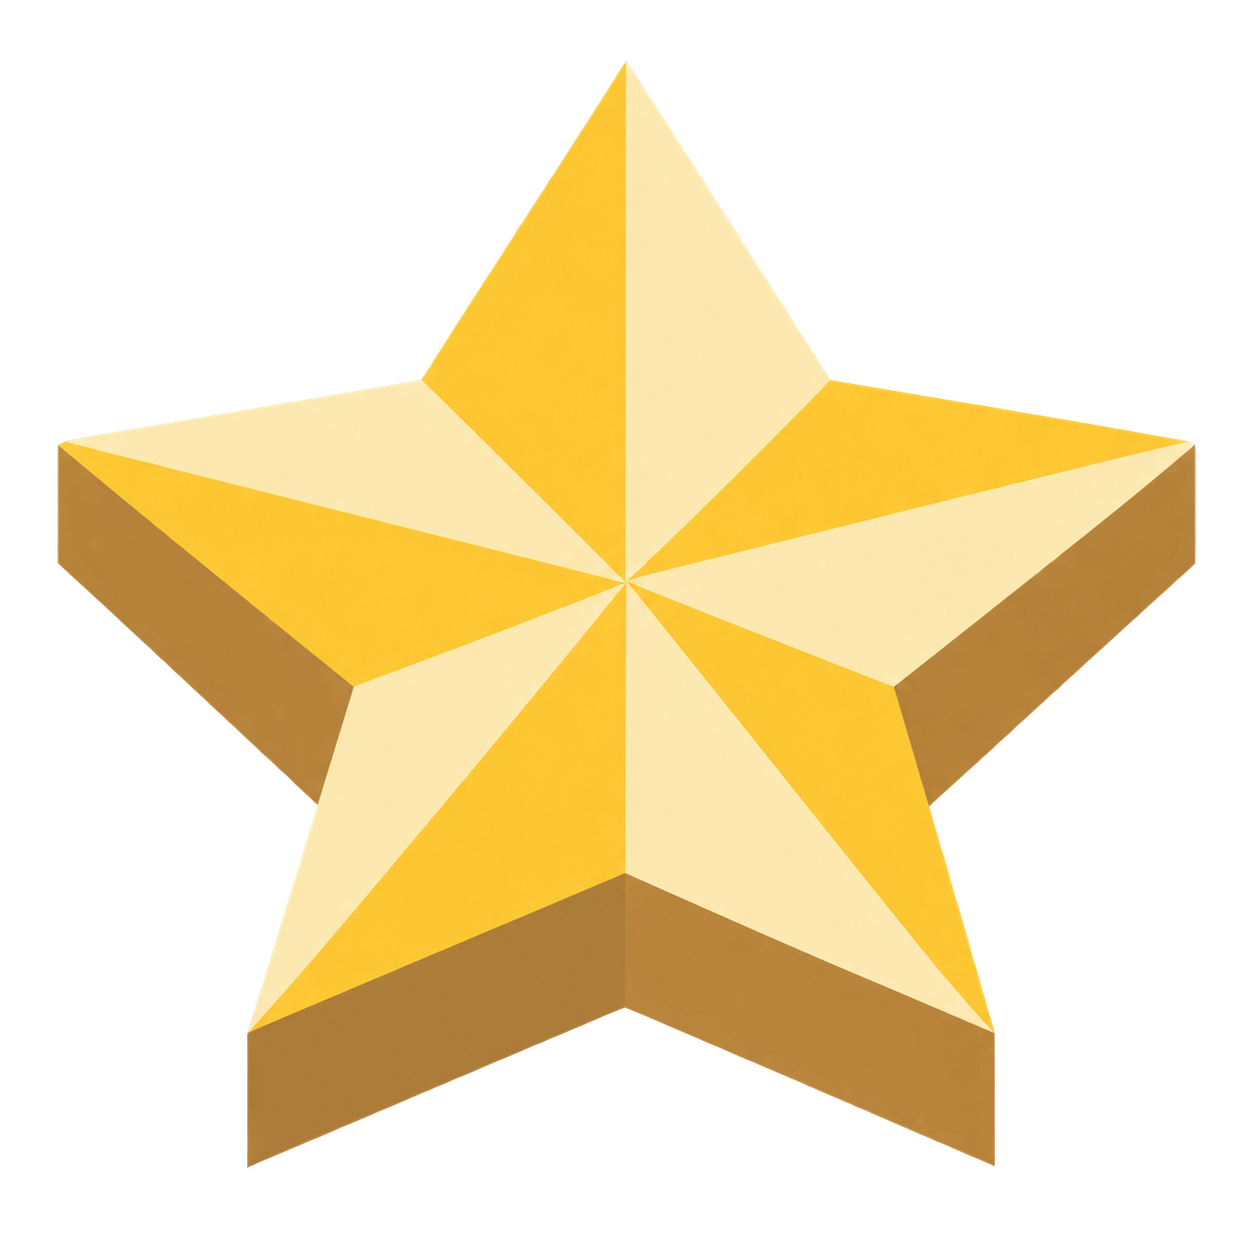
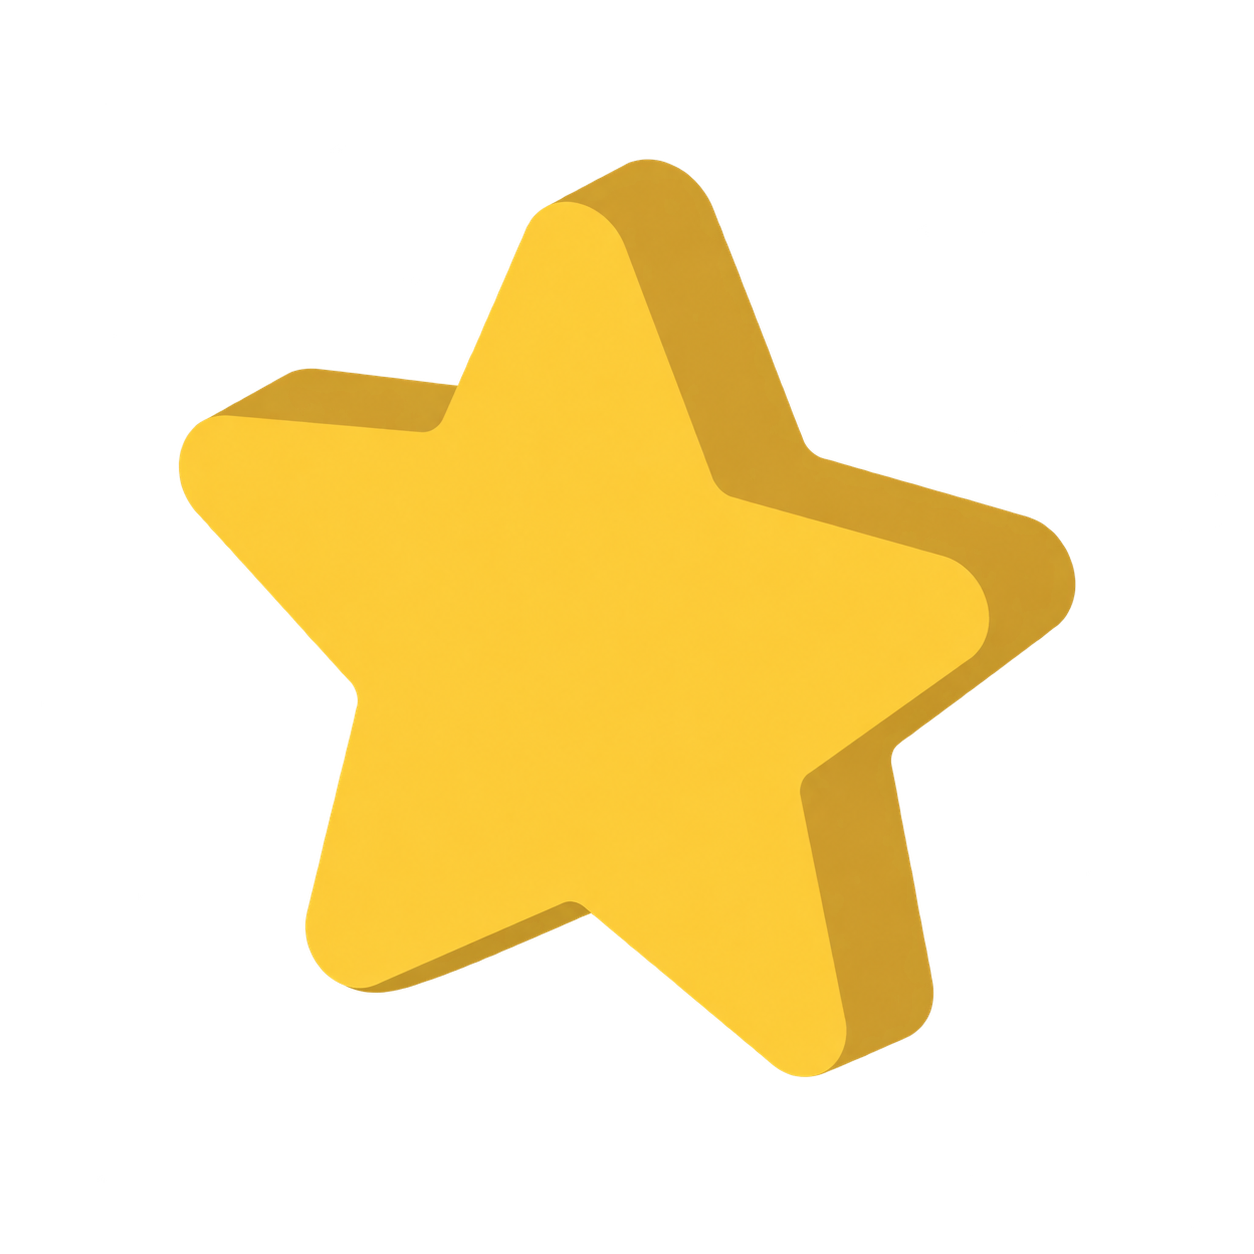
new version and remake

diff --git a/src/MountainApp.tsx b/src/MountainApp.tsx
@@ -1,0 +1,46 @@
+import { useEffect, useState } from 'react';
+import { convert, parseMoney } from './math';
+import { items, money, number, quantityLabel, verdict } from './items';
+import { loadInitialState, savePrices } from './preferences';
+import { mountainLayout } from './mountain';
+import './mountain.css';
+
+export default function MountainApp() {
+  const [state, setState] = useState(() => {
+    const initial = loadInitialState();
+    return { ...initial, price: number.format(initial.prices.rohliky) };
+  });
+  const amount = parseMoney(state.amount);
+  const price = parseMoney(state.price);
+  const result = amount !== null && price !== null && price > 0 ? convert(amount, price) : null;
+  const pile = mountainLayout(result?.whole ?? 0);
+  useEffect(() => { savePrices(state.prices); }, [state.prices]);
+  function changePrice(value: string) {
+    const parsed = parseMoney(value);
+    setState(current => ({ ...current, price: value, prices: parsed !== null && parsed > 0 ? { ...current.prices, rohliky: parsed } : current.prices }));
+  }
+  return <div className="mountain-page">
+    <main className="mountain-main">
+      <section className="mountain-controls" aria-labelledby="title">
+        <h1 id="title">Kolik rohlíků?</h1>
+        <label className="field-label" htmlFor="mountain-amount">Kolik to stojí?</label>
+        <div className="amount-wrap"><input id="mountain-amount" inputMode="decimal" autoComplete="off" maxLength={18} value={state.amount} onChange={event => setState(current => ({ ...current, amount: event.target.value }))} aria-invalid={amount === null} aria-describedby="mountain-error" /><span>Kč</span></div>
+        <div className="presets">{[{ name: 'Svačina', value: 50 }, { name: 'Boty', value: 2500 }, { name: 'Telefon', value: 25000 }, { name: 'Auto', value: 500000 }].map(preset => <button key={preset.value} onClick={() => setState(current => ({ ...current, amount: number.format(preset.value) }))}>{preset.name}</button>)}</div>
+        <div className="price-row"><label htmlFor="mountain-price">Cena za rohlík</label><div className="price-input"><input id="mountain-price" inputMode="decimal" value={state.price} maxLength={15} onChange={event => changePrice(event.target.value)} aria-invalid={price === null || price <= 0} aria-describedby="mountain-error" /><span>Kč</span><span aria-hidden="true">✎</span></div></div>
+        <p id="mountain-error" className="error" hidden={!!result}>Zadej nezápornou částku a cenu rohlíku vyšší než nula, nejvýše na dvě desetinná místa.</p>
+        <div className="mountain-add"><button disabled={!result} onClick={() => setState(current => ({ ...current, amount: number.format(Math.min(1_000_000_000, (amount ?? 0) + 100)) }))}>+ 100 Kč</button><button disabled={!result} onClick={() => setState(current => ({ ...current, amount: number.format(Math.min(1_000_000_000, (amount ?? 0) + 1000)) }))}>+ 1 000 Kč</button></div>
+      </section>
+      <section className="mountain-scene" aria-label="Hora rohlíků">
+        <div className="mountain-total" aria-live="polite" aria-atomic="true"><div className={`quantity${result && result.whole > 999999 ? ' long' : ''}`}>{result ? number.format(result.whole) : '—'}</div><div className="quantity-label">{result ? quantityLabel(items[0], result.whole) : 'čekáme na platnou cenu'}</div></div>
+        <svg className="bread-mountain" viewBox="0 0 600 450" aria-hidden="true">
+          <ellipse cx="300" cy="412" rx={pile.length ? Math.min(264, 30 + Math.sqrt(pile.length) * 16) : 35} ry="13" fill="#d7cbb1" opacity=".22" />
+          <path d="M28 420Q300 415 572 420" stroke="#d9d4c7" fill="none" />
+          {pile.map((bread, index) => <g key={index} className="bread-piece" style={{ transform: `translate(${bread.x}px, ${bread.y}px) rotate(${bread.rotation}deg)` }}><image href="/assets/rohliky.png" x={-bread.width / 2} y={-bread.width / 2} width={bread.width} height={bread.width} /></g>)}
+        </svg>
+        <p className="mountain-verdict">{result && amount !== null ? verdict('rohliky', amount, result.whole) : '\u00a0'}</p>
+        <p className="mountain-change">{result ? `A ještě ti zbyde ${money(result.remainder)}.` : '\u00a0'}</p>
+      </section>
+    </main>
+    <footer><span>Hromada je ilustrační. Počet sedí na rohlík.</span><span>Jen pro radost. A trochu perspektivy.</span></footer>
+  </div>;
+}

diff --git a/src/mountain.css b/src/mountain.css
@@ -1,0 +1,1 @@
+.version-nav{max-width:1100px;margin:32px auto 0;display:flex;gap:22px;padding:0 0;font-size:11px;color:var(--muted)}.version-nav a,.mountain-page footer a{color:var(--muted);text-decoration:none}.version-nav a:hover,.mountain-page footer a:hover{color:var(--ink)}.version-nav span{color:var(--ink);border-bottom:1px solid #b7b7ac;padding-bottom:6px}.mountain-main{grid-template-columns:340px minmax(0,1fr);gap:45px;align-items:center;margin-top:25px;min-height:640px}.mountain-controls h1{font-size:44px;letter-spacing:-2px;margin-bottom:42px}.mountain-controls .price-row{margin-top:30px}.mountain-add{display:flex;gap:9px;margin-top:30px}.mountain-add button{background:#eceae3;border:0;border-radius:5px;padding:11px 15px;font-size:11px;transition:background .15s,transform .15s}.mountain-add button:hover:not(:disabled){background:#e0ded5;transform:translateY(-2px)}.mountain-scene{min-width:0;position:relative;text-align:center;align-self:center}.mountain-total{position:absolute;top:0;left:0;right:0;z-index:2;pointer-events:none}.mountain-total .quantity{font-size:78px}.mountain-total .quantity.long{font-size:46px;letter-spacing:-2px}.mountain-total .quantity-label{font-size:12px}.bread-mountain{width:100%;display:block;overflow:visible;margin-top:40px}.bread-piece{transition:transform .55s cubic-bezier(.2,.75,.25,1);animation:bread-appear .45s ease-out}.mountain-verdict{margin:5px 0 10px;font-size:13px}.mountain-change{font-size:11px;color:var(--muted);margin:0}.mountain-page footer{font-size:10px}@keyframes bread-appear{from{opacity:0}to{opacity:1}}@media(max-width:1190px){.version-nav{margin-left:40px;margin-right:40px}.mountain-main{grid-template-columns:300px minmax(0,1fr);gap:25px}}@media(max-width:850px){.mountain-main{grid-template-columns:260px minmax(0,1fr);gap:10px}.mountain-controls h1{font-size:37px}.mountain-total .quantity{font-size:61px}}@media(max-width:680px){.version-nav{margin:23px 25px 0}.mountain-main{display:flex;flex-direction:column;gap:35px;margin:26px 25px 35px;min-height:0}.mountain-controls{width:100%;max-width:420px}.mountain-controls h1{font-size:39px;margin-bottom:28px}.mountain-controls .price-row{margin-top:24px}.mountain-add{margin-top:20px}.mountain-scene{width:100%;max-width:550px}.mountain-total{top:0}.mountain-total .quantity{font-size:60px}.bread-mountain{margin-top:65px}.mountain-page footer{gap:12px}.mountain-page footer a{white-space:nowrap}}@media(prefers-reduced-motion:reduce){.bread-piece{transition:none;animation:none}}

diff --git a/src/style.css b/src/style.css
@@ -10,3 +10,27 @@ h1{margin-bottom:38px}.unit-options{gap:9px}.unit-button{flex-direction:column;g
 /* Highlight the unit price only while interacting with it. */
 .price-input{background:transparent;border-color:var(--line)}
 .price-input:hover,.price-input:focus-within{background:var(--yellow)}
+/* Neutral accent variation. */
+:root{--yellow:#d2d2ce}
+.price-input:hover{border-color:#b0b0aa}
+.price-input:focus-within{border-color:#777972;box-shadow:0 0 0 3px #d2d2ce55}
+.price-input>span:last-child{color:var(--muted)}
+.receipt-actions button:hover:not(:disabled){box-shadow:0 2px 0 #aaada9}
+button:focus-visible,a:focus-visible,input:focus-visible{outline-color:#73766e}
+.amount-wrap:focus-within{border-color:#73766e}
+
+/* Quieter single-title layout. */
+:root{--yellow:#e9e8e3}
+main{margin-top:70px}
+h1{font-size:48px;line-height:1.15;letter-spacing:-2px;margin-bottom:42px}
+h1>span:after{display:none}
+.unit-button:before{left:18%;right:18%;border-radius:3px;transform:none}
+.unit-button[aria-pressed=true]:before{height:19px;opacity:.8}
+.unit-button:hover:before{opacity:.5}
+.price-input{border-color:#e4e2db}
+.price-input:hover{border-color:#d7d5ce}
+.price-input:focus-within{border-color:#b6b8af;box-shadow:0 0 0 2px #e9e8e340}
+.receipt-actions button:hover:not(:disabled){background:#eeede8;box-shadow:none;transform:none}
+.receipt-actions button:hover:not(:disabled)>span{transform:translate(1px,-1px)}
+@media(max-width:900px){main{margin-top:40px}h1{font-size:41px;letter-spacing:-1.5px}}
+@media(max-width:680px){main{margin-top:12px}h1{font-size:39px;margin-bottom:32px;letter-spacing:-1.5px}}

diff --git a/src/mountain.ts b/src/mountain.ts
@@ -1,0 +1,26 @@
+export interface BreadPosition { x: number; y: number; rotation: number; width: number }
+
+// The pile is illustrative: logarithmic growth keeps large amounts legible and bounded.
+export function mountainLayout(quantity: number): BreadPosition[] {
+  if (!Number.isFinite(quantity) || quantity <= 0) return [];
+  const count = Math.min(240, Math.max(1, Math.ceil(14 * Math.log2(1 + quantity / 4))));
+  const rows = Math.ceil((Math.sqrt(8 * count + 1) - 1) / 2);
+  const width = 57;
+  const horizontalStep = Math.min(28, 520 / Math.max(1, rows - 1));
+  const verticalStep = Math.min(20, 265 / Math.max(1, rows - 1));
+  const positions: BreadPosition[] = [];
+  for (let row = 0; positions.length < count; row++) {
+    const capacity = rows - row;
+    const remaining = Math.min(capacity, count - positions.length);
+    for (let column = 0; column < remaining; column++) {
+      const seed = positions.length * 137.508;
+      positions.push({
+        x: 300 + (column - (remaining - 1) / 2) * horizontalStep + Math.sin(seed) * 5,
+        y: 397 - row * verticalStep + Math.cos(seed) * 4,
+        rotation: Math.sin(seed * 2) * 29,
+        width,
+      });
+    }
+  }
+  return positions;
+}

diff --git a/src/mountain.test.ts b/src/mountain.test.ts
@@ -1,0 +1,14 @@
+import test from 'node:test';
+import assert from 'node:assert/strict';
+import { mountainLayout } from './mountain';
+
+test('pile is empty at zero and grows with quantity while remaining bounded', () => {
+  assert.deepEqual(mountainLayout(0), []);
+  const counts = [1, 10, 100, 1000, 100000, 100000000000].map(n => mountainLayout(n).length);
+  assert.ok(counts.every((n, i) => i === 0 || n >= counts[i - 1]));
+  assert.ok(counts.at(-1)! <= 240);
+  for (const position of mountainLayout(100000000000)) {
+    assert.ok(position.x > 20 && position.x < 580);
+    assert.ok(position.y > 120 && position.y < 410);
+  }
+});

diff --git a/src/main.tsx b/src/main.tsx
@@ -1,6 +1,6 @@
 import { StrictMode } from 'react';
 import { createRoot } from 'react-dom/client';
-import App from './App';
+import MountainApp from './MountainApp';
 import './style.css';
 
-createRoot(document.getElementById('root')!).render(<StrictMode><App /></StrictMode>);
+createRoot(document.getElementById('root')!).render(<StrictMode><MountainApp /></StrictMode>);

diff --git a/README.md b/README.md
@@ -21,11 +21,17 @@ Deploy the generated `dist/` directory to any static host.
 
 ## Structure
 
-- `src/App.tsx`: React UI, controlled inputs, copy and share actions.
+- `src/MountainApp.tsx`: Rohlíky-only React UI and growing bread mountain.
 - `src/items.ts`: Typed comparison items, Czech formatting and result text.
 - `src/math.ts`: Pure parsing and integer-cent calculations.
 - `src/preferences.ts`: Validated local prices and share-link initialization.
 - `src/style.css`: Existing responsive design and interaction styles.
 - `public/assets/`: Flat isometric images, also used for the favicon.
 
-Prices stay in browser storage when available. Share links preserve the amount, selected item, and unit price. Invalid input disables copying/sharing. Clipboard failures provide selectable text.
+Prices stay in browser storage when available. The amount and price accept Czech decimal commas. Invalid input pauses the calculation.
+
+## Mountain version
+
+The mountain calculator is the only app on `main`, served at `/`. The exact quantity and change use integer-cent calculations. The visual pile grows logarithmically and is capped at 240 sprites to keep extreme amounts responsive; reduced-motion preferences disable animation.
+
+The two-version experiment (receipt plus mountain) is preserved in the separate `2ver` branch checkout at `../kolik-rohliku-2ver`. Its changes are staged for a manual commit.
